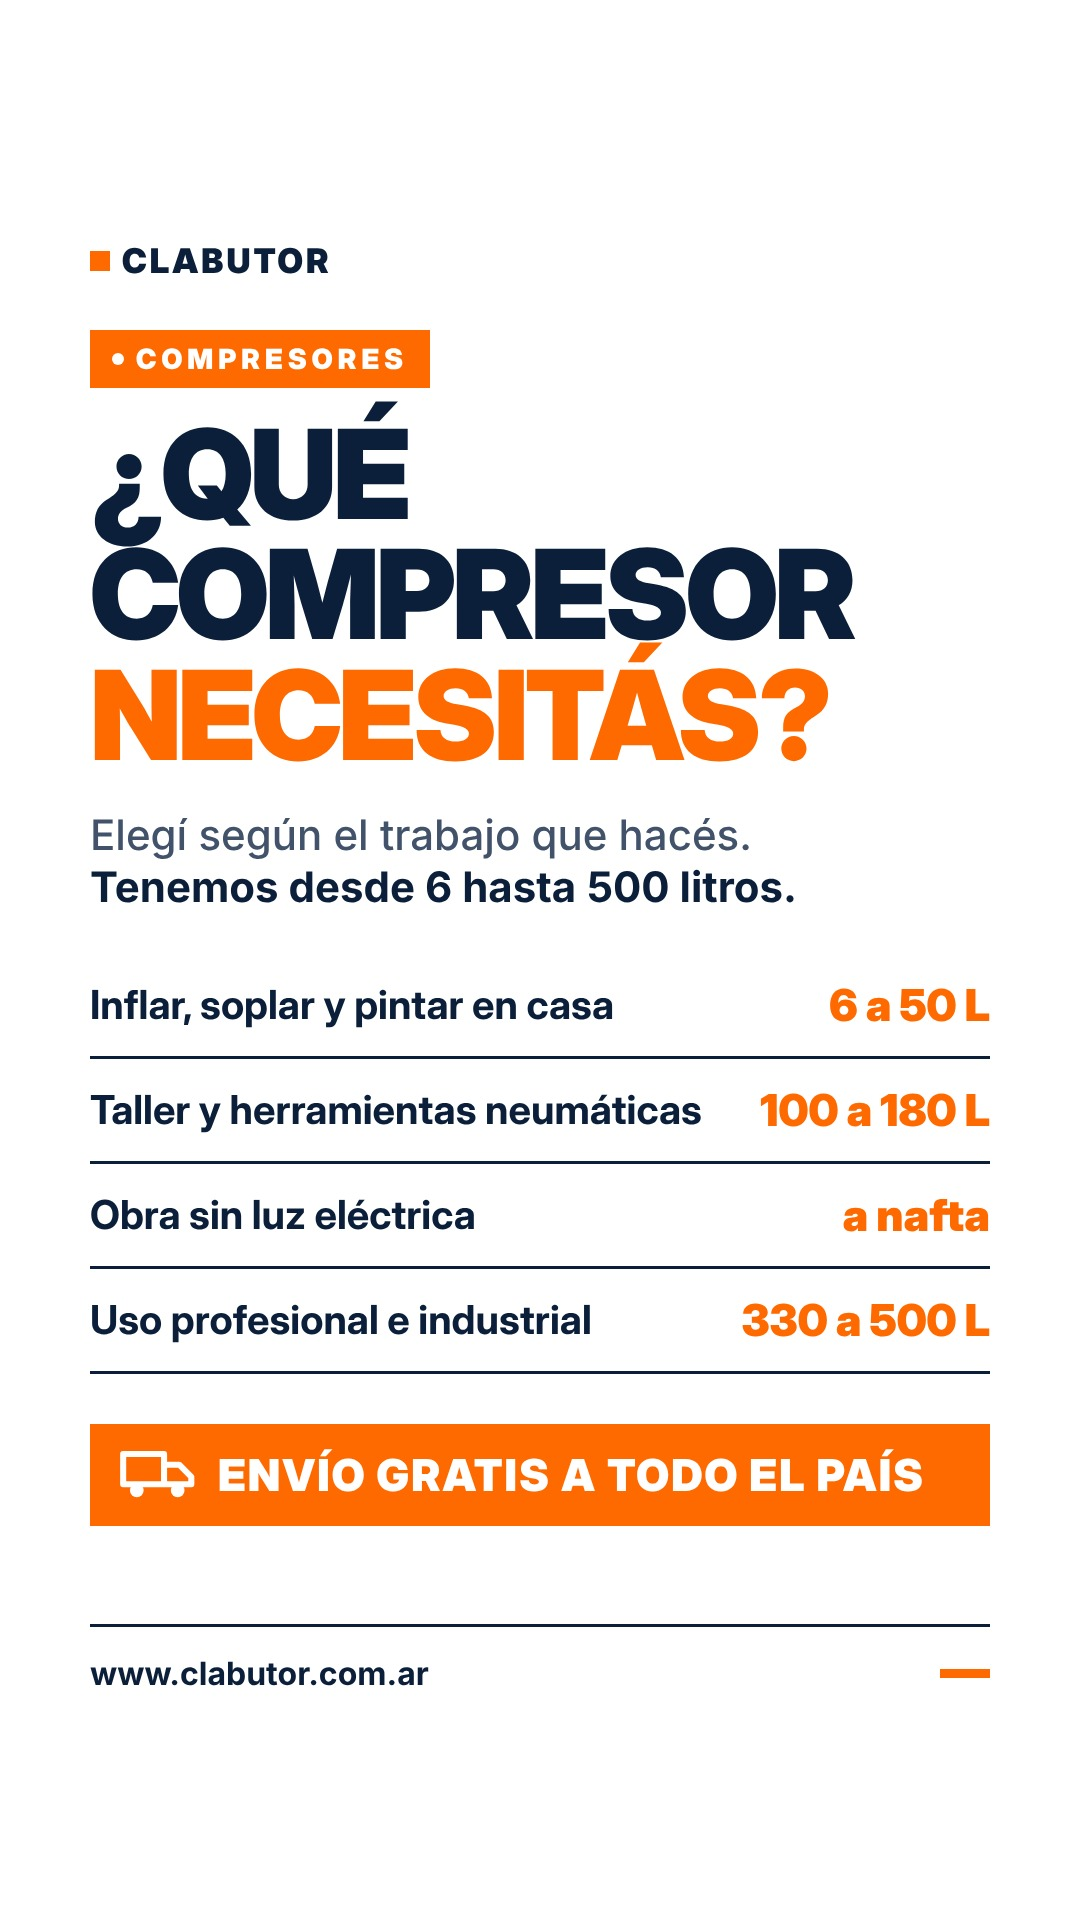
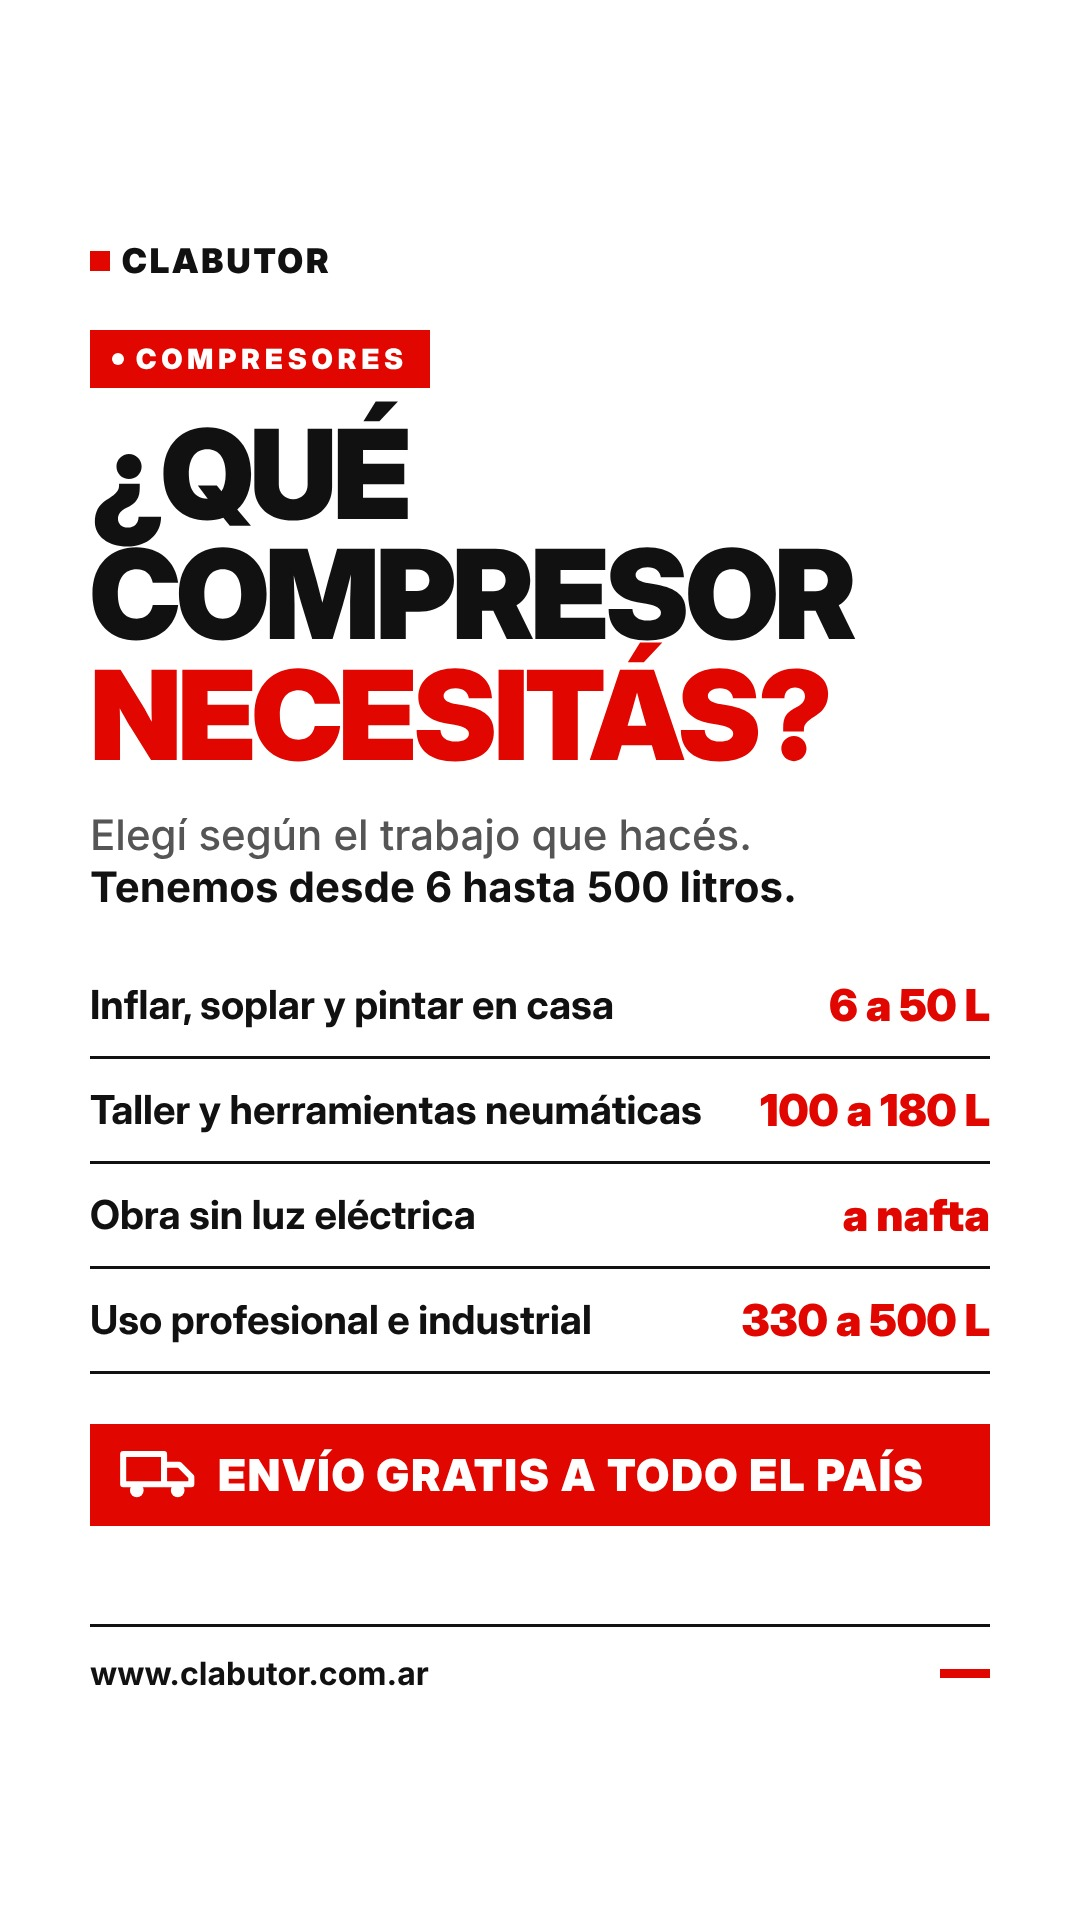
Historias fuera de campaña con colores Clabutor (blanco, negro, rojo); compresores
Claude-Session: https://claude.ai/code/session_01XbJLpPx7CCs1ipZpL6GiAh

diff --git a/disenos/historia.css b/disenos/historia.css
@@ -105,3 +105,12 @@ html, body { width: 1080px; height: 1920px; }
 .historia.blanca .panel-oferta::before { background: var(--blanco); }
 .historia.blanca .panel-oferta img { filter: none; }
 .historia.blanca .ficha .sku-o { color: #6B7A93; }
+
+/* Colores de marca Clabutor (todo lo que NO es campaña): blanco, negro y rojo #E10600 */
+.historia.colores-marca { --azul: #111111; --naranja: #E10600; }
+.historia.colores-marca.blanca { color: #111111; }
+.historia.colores-marca .bajada { color: #555555; }
+.historia.colores-marca .bajada b { color: #111111; }
+.historia.colores-marca .ficha .sku-o { color: #8A8A8A; }
+.historia.colores-marca .pie-h .barras span { background: #DDDDDD; }
+.historia.colores-marca .pie-h .barras span.activa { background: #E10600; }

diff --git a/disenos/posteos/historia-compresores.py b/disenos/posteos/historia-compresores.py
@@ -11,7 +11,7 @@ CINTA = None
 RUBRO = ""
 TEXTO = ""
 MARGEN = 1.40
-NARANJA = "#FF6A00"
+NARANJA = "#E10600"  # rojo Clabutor (no es campaña)
 
 _spec = importlib.util.spec_from_file_location("cyber_c", Path(__file__).with_name("historia-cyber-c.py"))
 _c = importlib.util.module_from_spec(_spec)
@@ -46,7 +46,7 @@ def camion(tam=60):
 
 def placas(g):
     filas = "".join(
-        f'<div style="display:flex;align-items:center;justify-content:space-between;gap:20px;padding:24px 0;border-bottom:3px solid #0B1F3A">'
+        f'<div style="display:flex;align-items:center;justify-content:space-between;gap:20px;padding:24px 0;border-bottom:3px solid #111">'
         f'<span style="font-family:Titular;font-weight:700;font-size:40px;line-height:1.1">{uso}</span>'
         f'<span style="font-family:Titular;font-weight:900;font-size:44px;color:{NARANJA};white-space:nowrap">{rango}</span></div>'
         for uso, rango in GUIA)
@@ -59,11 +59,11 @@ def placas(g):
   {camion(76)}<span style="font-family:Titular;font-weight:900;font-size:44px;letter-spacing:2px">ENVÍO GRATIS A TODO EL PAÍS</span>
 </div>
 '''
-    salida = [("blanca", info)]
+    salida = [("blanca colores-marca", info)]
     for sku, nombre, costo, titulo in COMPRESORES:
         if not (g.AQUI / "productos" / "recortes" / f"{sku}.png").exists():
             print(f"Sin foto: {sku}")
             continue
         html = _c.placa_oferta(g, sku, nombre, None, round(costo * MARGEN), titulo, True)
-        salida.append(("blanca", html.replace("OFERTA CYBER", "COMPRESORES")))
+        salida.append(("blanca colores-marca", html.replace("OFERTA CYBER", "COMPRESORES")))
     return salida

diff --git a/disenos/REGLAS.md b/disenos/REGLAS.md
@@ -28,6 +28,7 @@
 - Revisar siempre el render antes de publicar para confirmar que ningún renglón quede con una palabra suelta ni que nada se superponga.
 
 ## Historias (1080×1920)
+- **Colores:** fuera de una campaña, las historias van con los colores de Clabutor (blanco, negro y rojo #E10600), igual que el muro: `fondo = "blanca colores-marca"` (o `"azul colores-marca"` para fondo negro), sin cinta. El azul oscuro y el naranja son SOLO para la campaña CyberMonday.
 - Se arman con `FORMATO = "historia"` en el archivo de `posteos/`; el marco está en `generar.py` y el estilo en `historia.css` (misma tipografía Inter).
 - Campaña CyberMonday: azul oscuro #0B1F3A + naranja #FF6A00, y cinta fija "CYBERMONDAY · 2·3·4 NOV" arriba en todas las piezas.
 - La cinta va debajo de la barra de perfil de Instagram y el pie (www.clabutor.com.ar abajo a la izquierda) por encima de la zona de respuesta, para que nada quede tapado.
